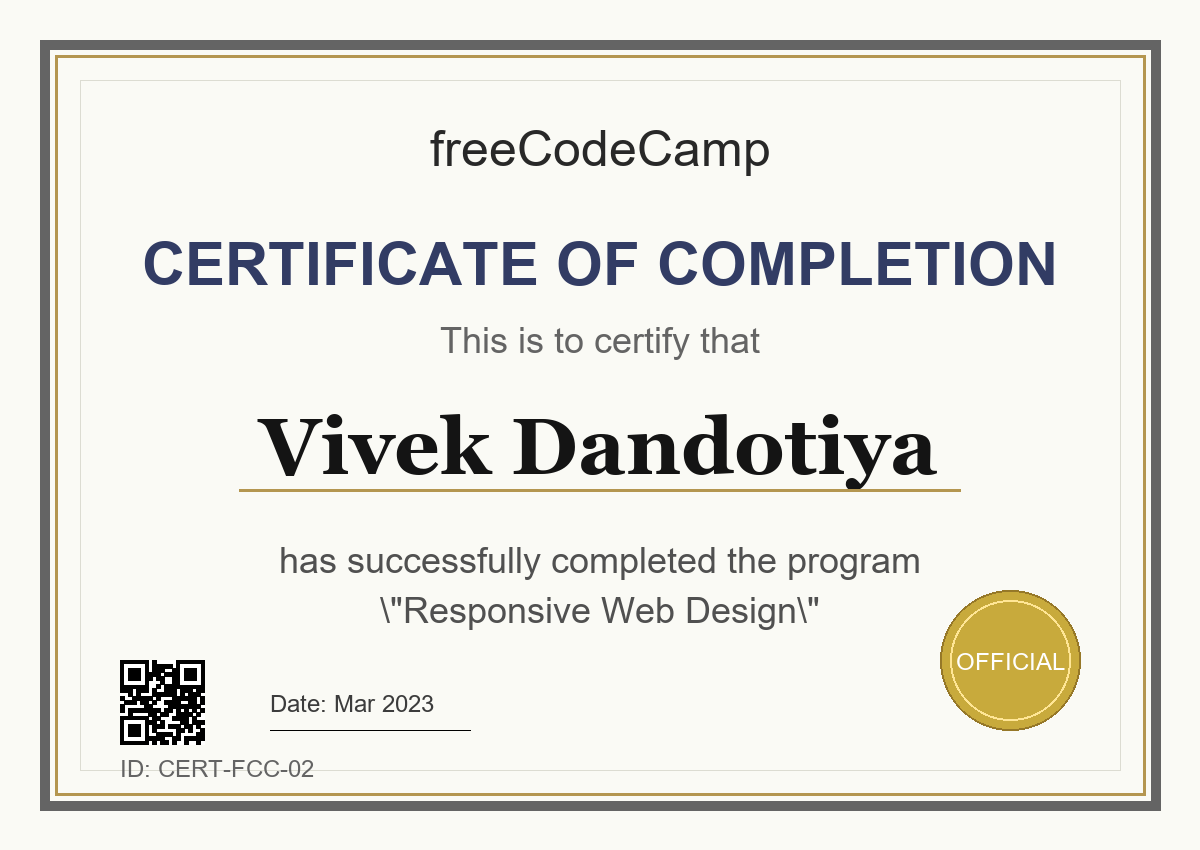
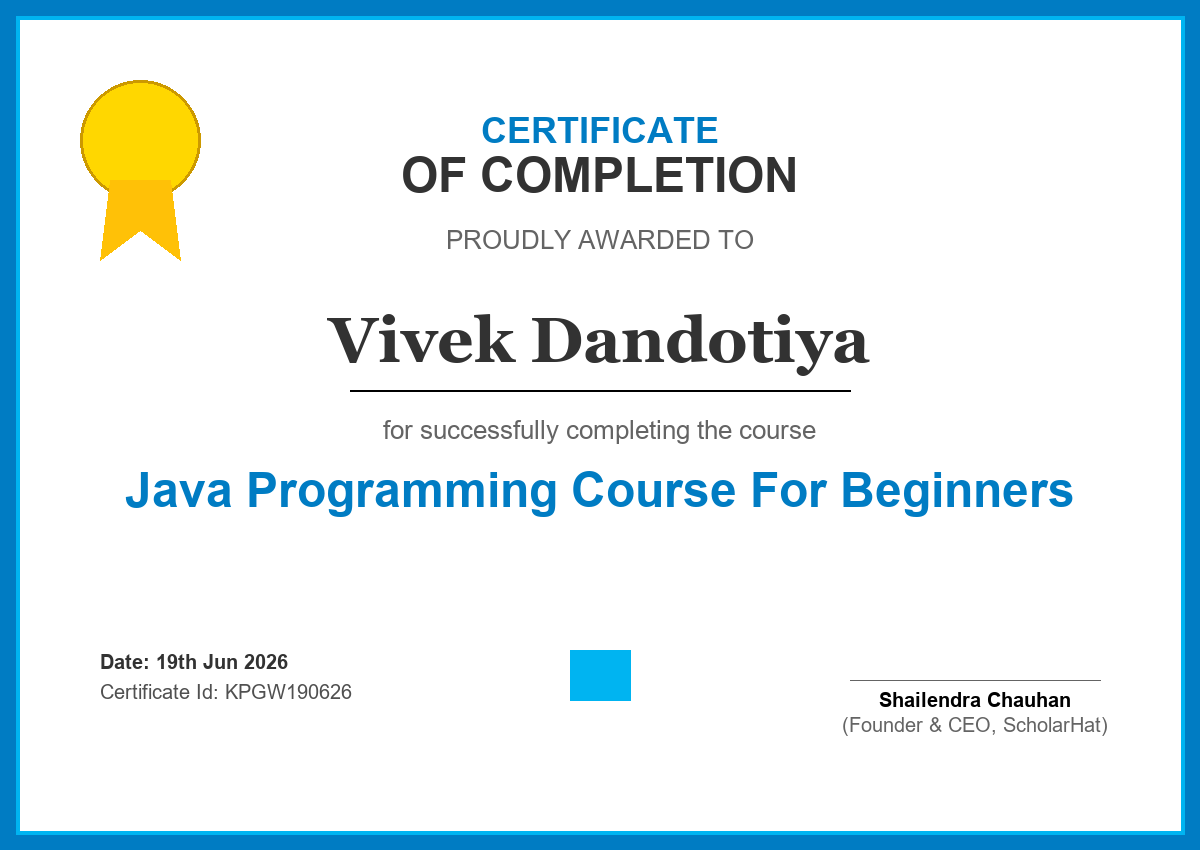
Update certificate generator data and generate original images

diff --git a/cert_gen.py b/cert_gen.py
@@ -2,138 +2,249 @@ from PIL import Image, ImageDraw, ImageFont
 import os
 import random
 
+# Certificate metadata
 certs = [
-    {"file": "cert1_real.png", "issuer": "Meta", "title": "React Basics", "date": "Jan 2024", "id": "CERT-MT-01"},
-    {"file": "cert2_real.png", "issuer": "freeCodeCamp", "title": "Responsive Web Design", "date": "Mar 2023", "id": "CERT-FCC-02"},
-    {"file": "cert3_real.png", "issuer": "Udemy", "title": "JavaScript — Complete Guide", "date": "Jun 2023", "id": "CERT-UD-03"},
-    {"file": "cert4_real.png", "issuer": "Google", "title": "UX Design Certificate", "date": "Sep 2023", "id": "CERT-GG-04"},
-    {"file": "cert5_real.png", "issuer": "Vercel", "title": "Next.js — App Router", "date": "Feb 2024", "id": "CERT-VC-05"},
-    {"file": "cert6_real.png", "issuer": "Microsoft", "title": "TypeScript Fundamentals", "date": "Apr 2024", "id": "CERT-MS-06"}
+    {
+        "file": "cert1_real.png",
+        "issuer": "IBM SkillsBuild",
+        "title": "Web Development Fundamentals",
+        "date": "Jun 20, 2026",
+        "id": "6e8f2cdd-5e00-4086-b27e-3eaca97c4f29",
+        "verify_url": "https://www.credly.com/badges/6e8f2cdd-5e00-4086-b27e-3eaca97c4f29",
+        "style": "ibm"
+    },
+    {
+        "file": "cert2_real.png",
+        "issuer": "ScholarHat",
+        "title": "Java Programming Course For Beginners",
+        "date": "19th Jun 2026",
+        "id": "KPGW190626",
+        "verify_url": "www.scholarhat.com/certificate/verify",
+        "style": "scholarhat"
+    },
+    {
+        "file": "cert3_real.png",
+        "issuer": "IIT Kharagpur (NPTEL)",
+        "title": "Cloud Computing",
+        "date": "Jul-Oct 2025",
+        "id": "NPTEL25CS107S1358700346",
+        "verify_url": "https://nptel.ac.in",
+        "score_info": "Consolidated Score: 52% | Assignments: 17.5/25 | Exam: 34.5/75",
+        "style": "nptel"
+    },
+    {
+        "file": "cert4_real.png",
+        "issuer": "Infosys Springboard",
+        "title": "ChatGPT-4 Prompt Engineering: ChatGPT, Generative AI & LLM",
+        "date": "August 13, 2025",
+        "id": "verify.onwingspan.com",
+        "verify_url": "https://verify.onwingspan.com",
+        "style": "infosys"
+    }
 ]
 
 name = "Vivek Dandotiya"
 width, height = 1200, 850
 margin = 40
 
-# Try to load standard fonts, fallback to default
+# Try loading standard Windows fonts, fallback to default if not available
 try:
-    font_title = ImageFont.truetype("arialbd.ttf", 60)
-    font_subtitle = ImageFont.truetype("arial.ttf", 36)
-    font_name = ImageFont.truetype("georgiab.ttf", 80)
-    font_issuer = ImageFont.truetype("arial.ttf", 50)
-    font_small = ImageFont.truetype("arial.ttf", 24)
+    font_title = ImageFont.truetype("arialbd.ttf", 48)
+    font_subtitle = ImageFont.truetype("arial.ttf", 26)
+    font_name = ImageFont.truetype("georgiab.ttf", 64)
+    font_issuer = ImageFont.truetype("arialbd.ttf", 36)
+    font_small = ImageFont.truetype("arial.ttf", 20)
+    font_bold_small = ImageFont.truetype("arialbd.ttf", 20)
 except IOError:
-    # If standard fonts missing, just use default (it won't look as nice, but will work)
     print("Warning: Standard fonts not found, using default.")
     font_title = ImageFont.load_default()
     font_subtitle = ImageFont.load_default()
     font_name = ImageFont.load_default()
     font_issuer = ImageFont.load_default()
     font_small = ImageFont.load_default()
+    font_bold_small = ImageFont.load_default()
 
 os.makedirs("images", exist_ok=True)
 
-def draw_fake_qr(draw, x_start, y_start, size=100):
-    cell_size = size // 21  # typical QR is 21x21 modules
-    actual_size = cell_size * 21
-    draw.rectangle([x_start, y_start, x_start+actual_size, y_start+actual_size], fill=(255,255,255))
-    
-    # Draw random noise
-    for row in range(21):
-        for col in range(21):
-            if random.random() > 0.45:
-                x = x_start + col * cell_size
-                y = y_start + row * cell_size
-                draw.rectangle([x, y, x+cell_size, y+cell_size], fill=(0,0,0))
-                
-    # Function to draw the distinctive corner squares (position boxes)
-    def draw_qr_corner(cx, cy):
-        # Outer black box
-        draw.rectangle([cx, cy, cx+7*cell_size, cy+7*cell_size], fill=(0,0,0))
-        # Inner white box
-        draw.rectangle([cx+cell_size, cy+cell_size, cx+6*cell_size, cy+6*cell_size], fill=(255,255,255))
-        # Inner black square
-        draw.rectangle([cx+2*cell_size, cy+2*cell_size, cx+5*cell_size, cy+5*cell_size], fill=(0,0,0))
-        
-    draw_qr_corner(x_start, y_start) # Top-left
-    draw_qr_corner(x_start + (14*cell_size), y_start) # Top-right
-    draw_qr_corner(x_start, y_start + (14*cell_size)) # Bottom-left
-
+def draw_qr(draw, x, y, size=80):
+    # Draw simple simulated QR block
+    draw.rectangle([x, y, x + size, y + size], fill=(255, 255, 255), outline=(0,0,0), width=1)
+    cell = size // 10
+    for r in range(10):
+        for c in range(10):
+            # Position markers in corners
+            is_marker = (r < 3 and c < 3) or (r < 3 and c > 6) or (r > 6 and c < 3)
+            if is_marker:
+                draw.rectangle([x + c*cell, y + r*cell, x + (c+1)*cell, y + (r+1)*cell], fill=(0,0,0))
+            elif random.random() > 0.5:
+                draw.rectangle([x + c*cell, y + r*cell, x + (c+1)*cell, y + (r+1)*cell], fill=(0,0,0))
 
 for c in certs:
-    img = Image.new('RGB', (width, height), color=(250, 250, 245))
+    # 1. Base Setup
+    bg_color = (255, 255, 255)
+    if c['style'] == 'nptel':
+        bg_color = (255, 254, 245) # Cream base for NPTEL
+    
+    img = Image.new('RGB', (width, height), color=bg_color)
     draw = ImageDraw.Draw(img)
     
-    # Draw double border
-    draw.rectangle([margin, margin, width-margin, height-margin], outline=(100, 100, 100), width=10)
-    draw.rectangle([margin+15, margin+15, width-margin-15, height-margin-15], outline=(180, 150, 80), width=3)
-    
-    # Internal frame
-    draw.rectangle([margin+40, margin+40, width-margin-40, height-margin-40], outline=(220, 220, 210), width=1)
-    
-    # Logo / Issuer Header
-    text_issuer = c['issuer']
-    bbox_issuer = draw.textbbox((0, 0), text_issuer, font=font_issuer)
-    w_issuer = bbox_issuer[2] - bbox_issuer[0]
-    draw.text(((width - w_issuer) / 2, 120), text_issuer, font=font_issuer, fill=(40, 40, 40))
-    
-    # Title
-    text_c = "CERTIFICATE OF COMPLETION"
-    bbox_c = draw.textbbox((0, 0), text_c, font=font_title)
-    w_c = bbox_c[2] - bbox_c[0]
-    draw.text(((width - w_c) / 2, 230), text_c, font=font_title, fill=(50, 60, 100))
-    
-    # Subtitle
-    text_sub = "This is to certify that"
-    bbox_sub = draw.textbbox((0, 0), text_sub, font=font_subtitle)
-    w_sub = bbox_sub[2] - bbox_sub[0]
-    draw.text(((width - w_sub) / 2, 320), text_sub, font=font_subtitle, fill=(100, 100, 100))
-    
-    # Name
-    bbox_name = draw.textbbox((0, 0), name, font=font_name)
-    w_name = bbox_name[2] - bbox_name[0]
-    draw.text(((width - w_name) / 2, 400), name, font=font_name, fill=(20, 20, 20))
-    
-    # Line under name
-    draw.line([(width/2 - w_name/2 - 20, 490), (width/2 + w_name/2 + 20, 490)], fill=(180, 150, 80), width=3)
-    
-    # Course info
-    text_course = f"has successfully completed the program\\n\\\"{c['title']}\\\""
-    lines = text_course.split("\\n")
-    y_offset = 540
-    for line in lines:
-        bbox_l = draw.textbbox((0,0), line, font=font_subtitle)
-        w_l = bbox_l[2] - bbox_l[0]
-        draw.text(((width - w_l) / 2, y_offset), line, font=font_subtitle, fill=(80, 80, 80))
-        y_offset += 50
-    
-    # Date (Moved slightly to right)
-    text_date = f"Date: {c['date']}"
-    draw.text((margin+230, height-margin-120), text_date, font=font_small, fill=(60, 60, 60))
-    
-    # Signature line (Moved to right)
-    draw.line([(margin+230, height-margin-80), (margin+430, height-margin-80)], fill=(0,0,0), width=1)
-    
-    # Draw Fake QR Code securely in bottom left corner
-    qr_x = margin + 80
-    qr_y = height - margin - 150
-    draw_fake_qr(draw, qr_x, qr_y, size=90)
-    
-    
-    
-    # Seal placeholder
-    seal_r = 70
-    seal_x = width - margin - 150
-    seal_y = height - margin - 150
-    draw.ellipse([seal_x-seal_r, seal_y-seal_r, seal_x+seal_r, seal_y+seal_r], fill=(200, 170, 60), outline=(150, 120, 40), width=2)
-    draw.ellipse([seal_x-seal_r+10, seal_y-seal_r+10, seal_x+seal_r-10, seal_y+seal_r-10], outline=(255, 230, 150), width=2)
-    
-    seal_text = "OFFICIAL"
-    bbox_st = draw.textbbox((0,0), seal_text, font=font_small)
-    ws = bbox_st[2] - bbox_st[0]
-    draw.text((seal_x - ws/2, seal_y - 12), seal_text, font=font_small, fill=(255,255,255))
-    
-    # Save
+    # 2. Draw Borders and Themes
+    if c['style'] == 'ibm':
+        # IBM Blue framing and layout
+        draw.rectangle([0, 0, width, height], outline=(15, 98, 254), width=24) # IBM Blue main border
+        # Top-right SkillsBuild block color
+        draw.rectangle([width - 250, 24, width - 24, 180], fill=(255, 126, 182)) # Pink card block
+        draw.rectangle([width - 250, 180, width - 24, 240], fill=(15, 98, 254)) # Blue logo strip
+        draw.text((width - 230, 200), "IBM SkillsBuild", font=font_bold_small, fill=(255, 255, 255))
+        
+        # Left sidebar border detail
+        draw.rectangle([24, 24, 34, height-24], fill=(15, 98, 254))
+        
+    elif c['style'] == 'scholarhat':
+        # ScholarHat Cyan & Blue border
+        draw.rectangle([0, 0, width, height], outline=(0, 124, 195), width=16)
+        draw.rectangle([16, 16, width-16, height-16], outline=(0, 180, 241), width=4)
+        
+        # Golden Ribbon Badge on top left
+        draw.ellipse([80, 80, 200, 200], fill=(255, 215, 0), outline=(204, 153, 0), width=3)
+        draw.polygon([(110, 180), (100, 260), (140, 230), (180, 260), (170, 180)], fill=(255, 193, 7))
+        
+    elif c['style'] == 'nptel':
+        # IIT Cream and Deep Red theme
+        draw.rectangle([0, 0, width, height], outline=(115, 15, 15), width=20) # Deep red border
+        # Bottom brown-gold bar
+        draw.rectangle([20, height - 120, width - 20, height - 20], fill=(240, 219, 188))
+        
+        # Top Header Banner
+        draw.rectangle([20, 20, width - 20, 100], fill=(255, 255, 255))
+        draw.line([(20, 100), (width - 20, 100)], fill=(115, 15, 15), width=2)
+        
+        # Roll Number Box at bottom left
+        draw.text((40, height - 90), f"Roll No: {c['id']}", font=font_bold_small, fill=(115, 15, 15))
+        draw.text((40, height - 60), "To verify certificate scan QR", font=font_small, fill=(0,0,0))
+        
+    elif c['style'] == 'infosys':
+        # Clean Infosys Blue accents
+        draw.rectangle([0, 0, width, height], outline=(0, 124, 195), width=6)
+        draw.line([(0, 150), (width, 150)], fill=(0, 124, 195), width=4)
+        # Decorative lines on sides
+        for i in range(12):
+            draw.line([30 + i*15, 190, 30 + i*15, 215], fill=(135, 206, 250), width=2)
+            draw.line([width - 200 + i*15, 190, width - 200 + i*15, 215], fill=(135, 206, 250), width=2)
+
+    # 3. Main Text Layout
+    if c['style'] == 'ibm':
+        # IBM Layout
+        draw.text((70, 80), "In recognition of the commitment to achieve\nprofessional excellence", font=font_subtitle, fill=(40, 40, 40))
+        
+        draw.text((70, 280), name, font=font_name, fill=(0, 0, 0))
+        draw.text((70, 400), "Has successfully satisfied the requirements for:", font=font_subtitle, fill=(70, 70, 70))
+        
+        draw.line([(70, 470), (width - 100, 470)], fill=(15, 98, 254), width=2)
+        draw.text((70, 520), c['title'], font=font_title, fill=(15, 98, 254))
+        
+        draw.text((200, 680), f"Issued on: {c['date']}", font=font_small, fill=(40, 40, 40))
+        draw.text((200, 710), "Issued by: IBM SkillsBuild", font=font_small, fill=(40, 40, 40))
+        draw.text((200, 750), f"Verify: {c['verify_url']}", font=font_small, fill=(15, 98, 254))
+        
+        draw_qr(draw, 70, 670, size=90)
+        # IBM Text Logo bottom right
+        draw.text((width - 180, 700), "IBM", font=font_issuer, fill=(15, 98, 254))
+        
+    elif c['style'] == 'scholarhat':
+        # ScholarHat Layout
+        draw.text((width//2, 130), "CERTIFICATE", font=font_issuer, fill=(0, 124, 195), anchor="mm")
+        draw.text((width//2, 175), "OF COMPLETION", font=font_title, fill=(50, 50, 50), anchor="mm")
+        draw.text((width//2, 240), "PROUDLY AWARDED TO", font=font_subtitle, fill=(100, 100, 100), anchor="mm")
+        
+        draw.text((width//2, 340), name, font=font_name, fill=(50, 50, 50), anchor="mm")
+        draw.line([(width//2 - 250, 390), (width//2 + 250, 390)], fill=(0, 0, 0), width=2)
+        
+        draw.text((width//2, 430), "for successfully completing the course", font=font_subtitle, fill=(100, 100, 100), anchor="mm")
+        draw.text((width//2, 490), c['title'], font=font_title, fill=(0, 124, 195), anchor="mm")
+        
+        # Footer section (Date and Certificate ID on left, Signature on right)
+        draw.text((100, 650), f"Date: {c['date']}", font=font_bold_small, fill=(50, 50, 50))
+        draw.text((100, 680), f"Certificate Id: {c['id']}", font=font_small, fill=(80, 80, 80))
+        
+        # ScholarHat central bottom logo representation
+        draw.rectangle([width//2 - 30, 650, width//2 + 30, 700], fill=(0, 180, 241))
+        
+        draw.line([(width - 350, 680), (width - 100, 680)], fill=(100, 100, 100), width=1)
+        draw.text((width - 225, 700), "Shailendra Chauhan", font=font_bold_small, fill=(0, 0, 0), anchor="mm")
+        draw.text((width - 225, 725), "(Founder & CEO, ScholarHat)", font=font_small, fill=(100, 100, 100), anchor="mm")
+        
+    elif c['style'] == 'nptel':
+        # NPTEL Layout
+        draw.text((width//2, 60), "NPTEL ONLINE CERTIFICATION", font=font_issuer, fill=(115, 15, 15), anchor="mm")
+        draw.text((width//2, 90), "(Funded by the MoE, Govt. of India)", font=font_small, fill=(50, 50, 50), anchor="mm")
+        
+        # Swayam / IIT logos at top left/right
+        draw.text((60, 45), "IITK", font=font_bold_small, fill=(115, 15, 15))
+        draw.text((width - 160, 45), "SWAYAM", font=font_bold_small, fill=(0, 102, 204))
+        
+        draw.text((width//2, 170), "This certificate is awarded to", font=font_subtitle, fill=(80, 80, 80), anchor="mm")
+        draw.text((width//2, 240), name.upper(), font=font_name, fill=(0, 0, 0), anchor="mm")
+        draw.text((width//2, 310), "for successfully completing the course", font=font_subtitle, fill=(80, 80, 80), anchor="mm")
+        draw.text((width//2, 370), c['title'], font=font_title, fill=(0, 0, 0), anchor="mm")
+        
+        # NPTEL consolidated score details box
+        draw.rectangle([width//2 - 280, 430, width//2 + 280, 530], outline=(0, 0, 0), width=2)
+        draw.text((width//2, 455), c['score_info'].split('|')[0].strip(), font=font_bold_small, fill=(0, 0, 0), anchor="mm")
+        draw.text((width//2, 495), c['score_info'].split('|')[1].strip() + "   |   " + c['score_info'].split('|')[2].strip(), font=font_small, fill=(50, 50, 50), anchor="mm")
+        
+        # Details below box
+        draw.text((width//2, 570), "Total number of candidates certified in this course: 27874", font=font_subtitle, fill=(0, 0, 0), anchor="mm")
+        draw.text((width//2, 630), f"Duration: {c['date']} (12 week course)", font=font_bold_small, fill=(0, 0, 0), anchor="mm")
+        
+        # Signature on bottom right
+        draw.line([(width - 320, 710), (width - 80, 710)], fill=(0,0,0), width=1)
+        draw.text((width - 200, 730), "Prof. Haimanti Banerji", font=font_bold_small, fill=(0, 0, 0), anchor="mm")
+        draw.text((width - 200, 755), "IIT Kharagpur", font=font_small, fill=(100, 100, 100), anchor="mm")
+        
+        # Bottom brand labels
+        draw.text((250, height - 70), "Indian Institute of Technology Kharagpur", font=font_bold_small, fill=(115, 15, 15))
+        draw_qr(draw, width - 120, height - 110, size=80)
+        
+    elif c['style'] == 'infosys':
+        # Infosys Springboard Layout
+        draw.text((width//2, 80), "Infosys", font=font_issuer, fill=(0, 124, 195), anchor="mm")
+        draw.text((width//2, 115), "Navigate your next", font=font_small, fill=(80, 80, 80), anchor="mm")
+        
+        draw.text((width//2, 240), "COURSE COMPLETION CERTIFICATE", font=font_title, fill=(0, 124, 195), anchor="mm")
+        
+        draw.text((width//2, 330), "The certificate is awarded to", font=font_subtitle, fill=(100, 100, 100), anchor="mm")
+        draw.text((width//2, 400), name, font=font_name, fill=(0, 124, 195), anchor="mm")
+        
+        draw.text((width//2, 470), "for successfully completing the course", font=font_subtitle, fill=(80, 80, 80), anchor="mm")
+        
+        # Multi-line Course Title logic for Prompt Engineering
+        title_parts = [
+            "ChatGPT-4 Prompt Engineering:",
+            "ChatGPT, Generative AI & LLM"
+        ]
+        draw.text((width//2, 530), title_parts[0], font=font_bold_small, fill=(0, 124, 195), anchor="mm")
+        draw.text((width//2, 565), title_parts[1], font=font_bold_small, fill=(0, 124, 195), anchor="mm")
+        
+        draw.text((width//2, 630), f"on {c['date']}", font=font_subtitle, fill=(80, 80, 80), anchor="mm")
+        
+        # Infosys Springboard brand bottom center
+        draw.text((width//2, 700), "Infosys | Springboard", font=font_bold_small, fill=(255, 69, 0), anchor="mm")
+        draw.text((width//2, 735), "Congratulations! You make us proud!", font=font_subtitle, fill=(255, 69, 0), anchor="mm")
+        
+        # QR Code on left
+        draw_qr(draw, 80, 650, size=100)
+        draw.text((80, 765), "To verify scan QR code", font=font_small, fill=(80, 80, 80))
+        draw.text((80, 790), f"Verify: {c['verify_url']}", font=font_small, fill=(0, 124, 195))
+        
+        # Signature on right
+        draw.line([(width - 320, 740), (width - 80, 740)], fill=(0,0,0), width=1)
+        draw.text((width - 200, 760), "Thirumala Arohi", font=font_bold_small, fill=(0, 0, 0), anchor="mm")
+        draw.text((width - 200, 785), "Global Head, ETA, Infosys Ltd", font=font_small, fill=(100, 100, 100), anchor="mm")
+
+    # 4. Save Image
     out_path = os.path.join("images", c['file'])
     img.save(out_path)
-    print(f"Generated {out_path} with QR code")
+    print(f"Successfully generated certificate image: {out_path}")
+
+print("All original certificates generated successfully.")
